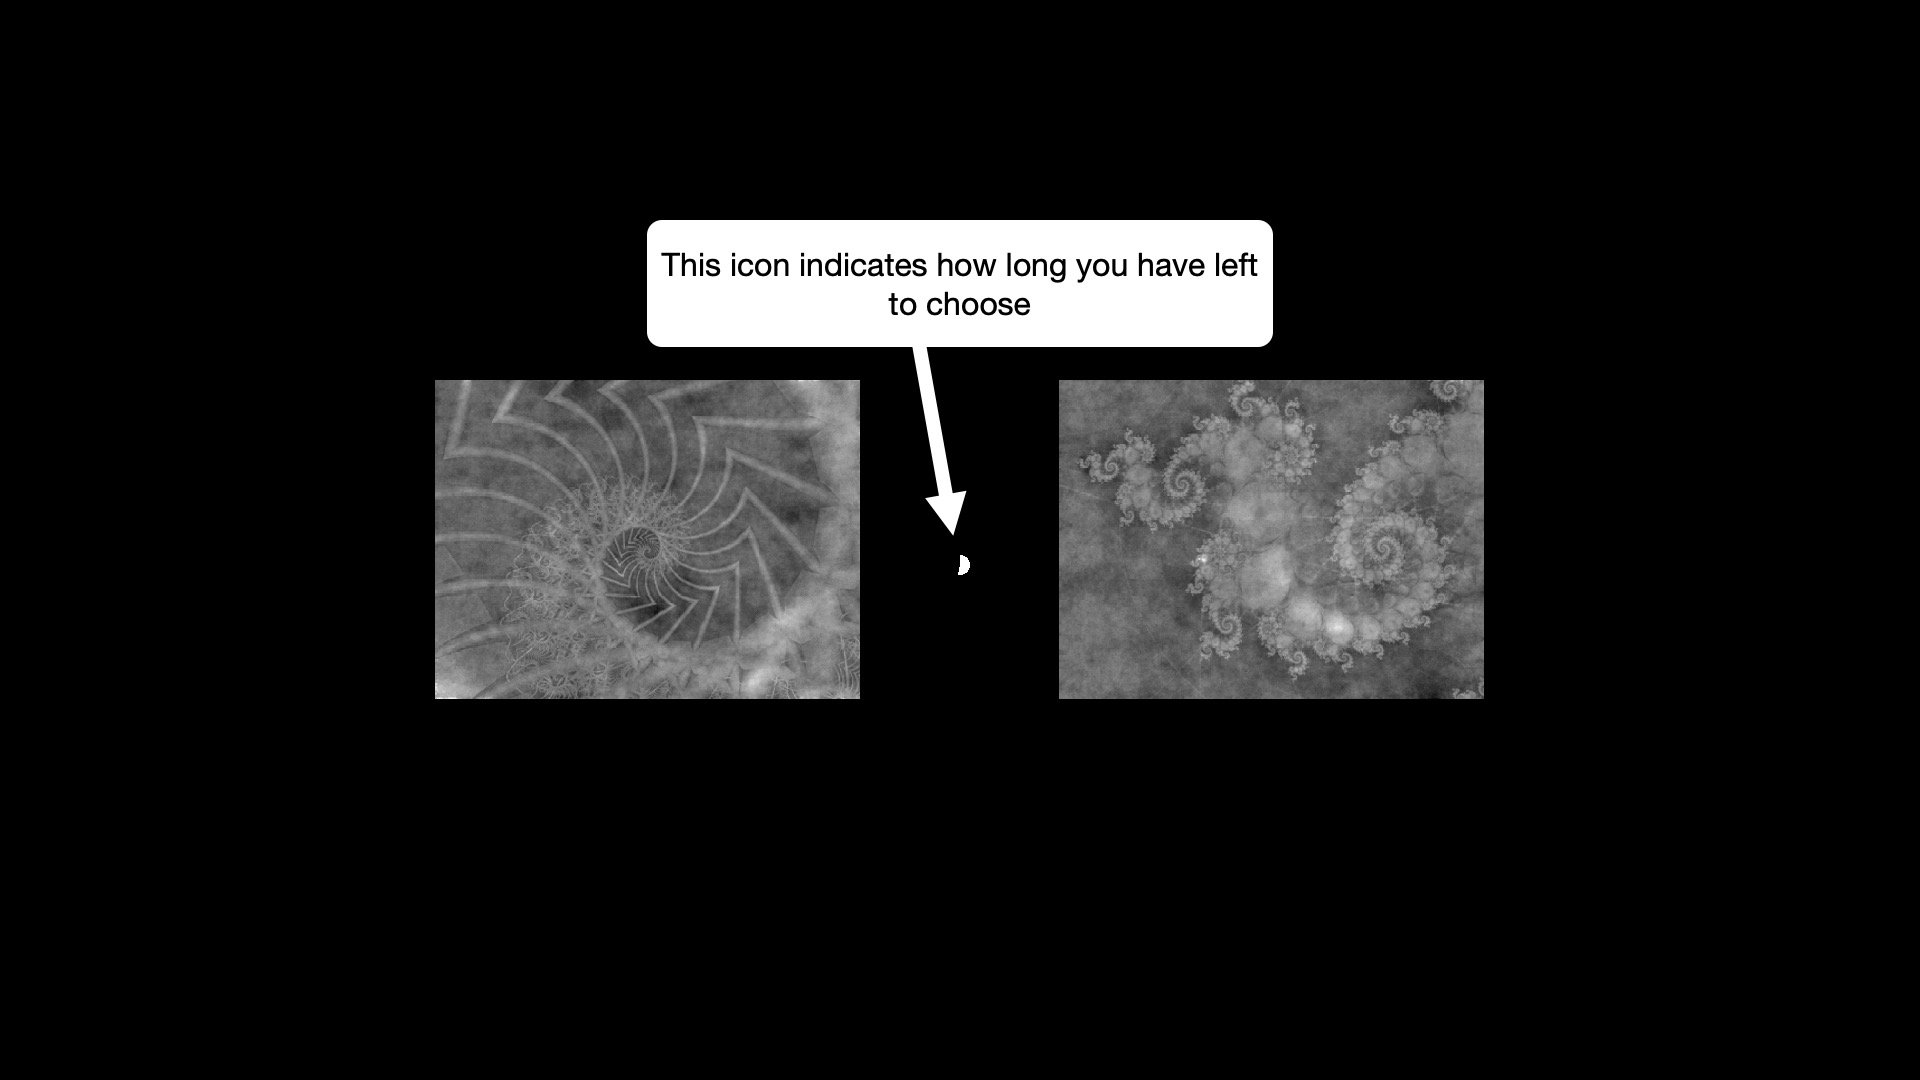
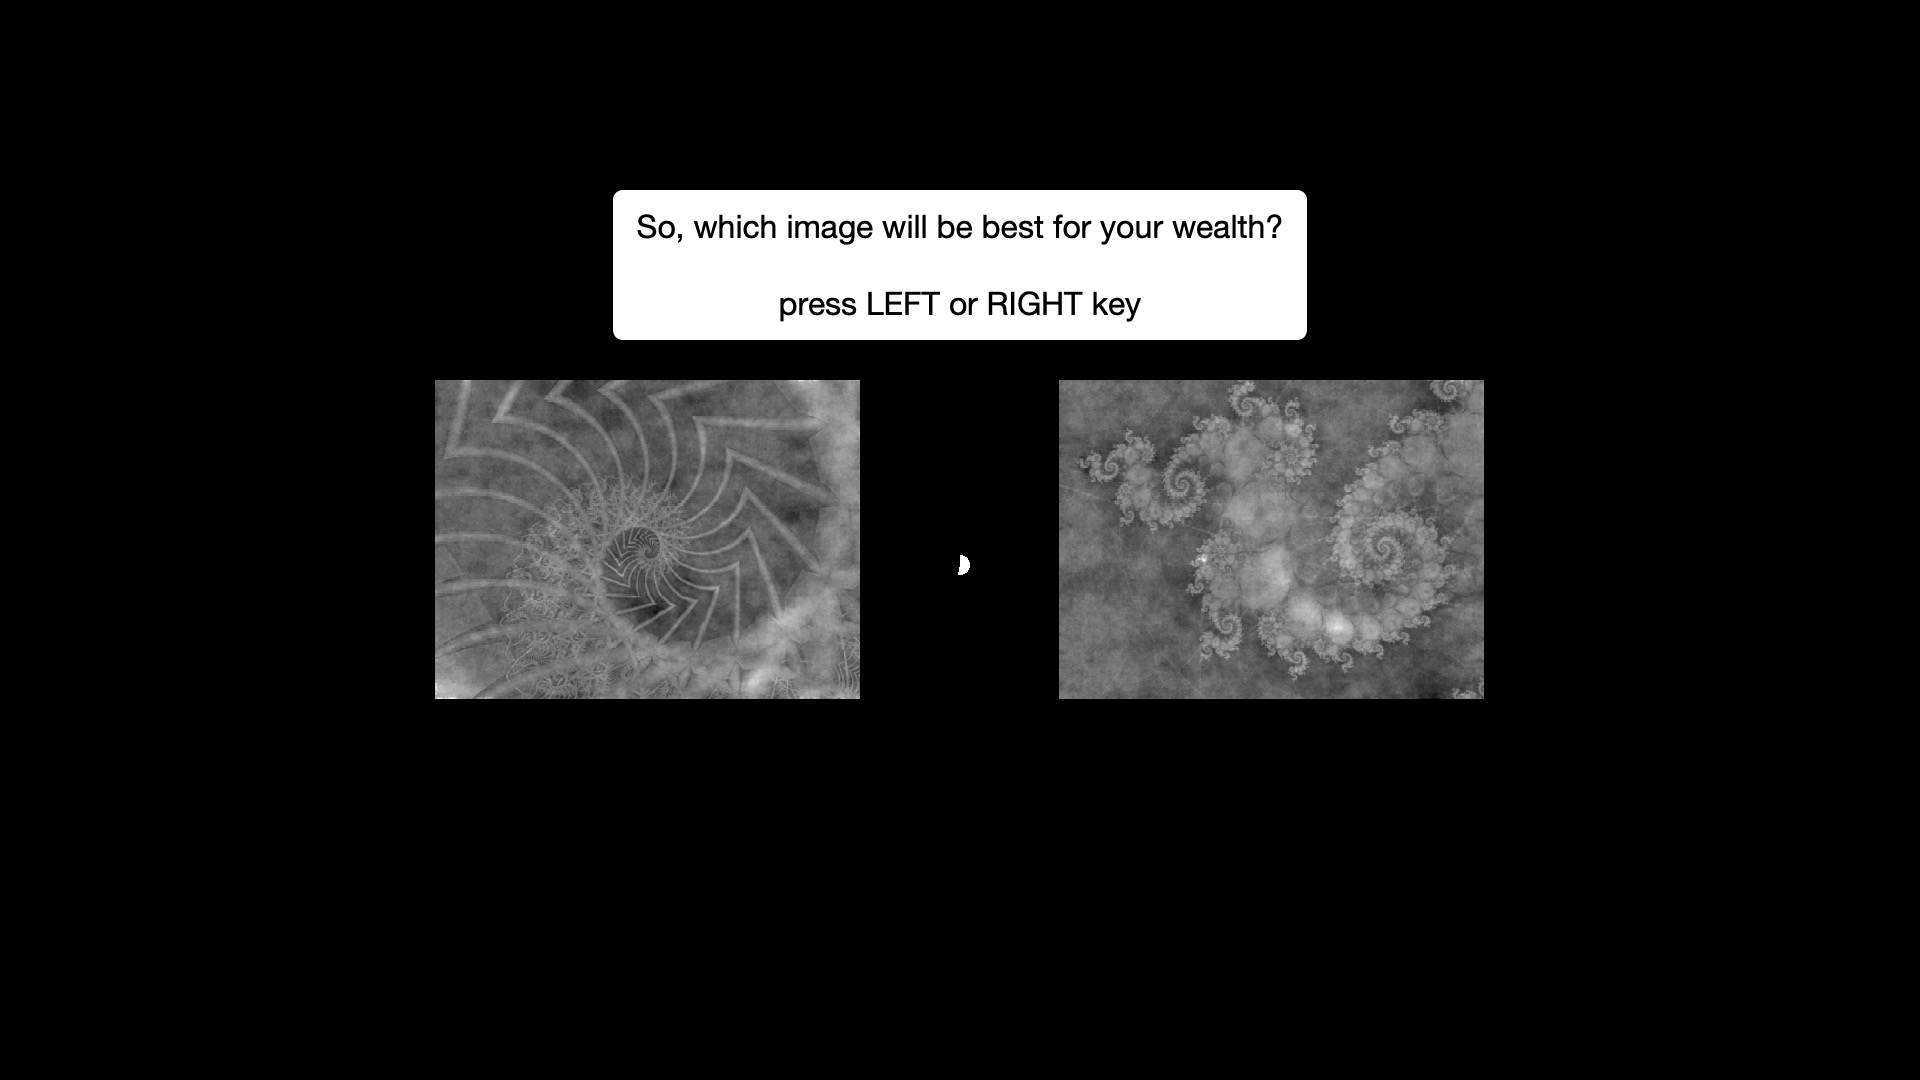
Added two gamble instructions and improved slideshow performance (less loading upfront).

Changed region(s): [[0.3125, 0.1528, 0.6875, 0.4889]]

diff --git a/ergEx_Run.py b/ergEx_Run.py
@@ -12,7 +12,7 @@ from codebase.experiment.exp.helper import get_frame_timings
 from codebase.file_handler import make_bids_dir
 import gc
 
-ACTIVE_MODE = 2
+ACTIVE_MODE = 1
 """ Mode for the active phase 1 = DRCMR, 2 = LML """
 
 N_TRIALS_PASSIVE = 4 * 45 # Default 4 * 45
@@ -39,6 +39,9 @@ MAX_TRIALS_PASSIVE = 45 # By default should be N_TRIALS_PASSIVE / 4
 MAX_TRIALS_ACTIVE = np.inf # Default is np.inf
 """ Number of trials per run in he active phase. """
 SESSIONS = [1, 2]
+
+SLIDESET = {1: [30, 44, 45, 56], 2: [1, 16, 17, 28]}
+""" The 2 sets of start and stop slides for the instructions depending on mode. """
 
 def set_up_win(fscreen, gui=True):
     win = visual.Window(size=[3072 // 2, 1920 // 2], fullscr=fscreen,
@@ -124,7 +127,7 @@ if __name__ == '__main__':
 
         if not instruction_shown:
             win, frameDur, _, win_size = set_up_win(expInfo['fullScreen'], False)
-            run_slideshow(win, passive_conf, win_size=win_size, start_slide=0, stop_slide=15)
+            run_slideshow(win, passive_conf, win_size=win_size, start_slide=SLIDESET[ACTIVE_MODE][0], stop_slide=SLIDESET[ACTIVE_MODE][1])
             win.close()
 
         for run in range(passive_conf['run'],  MAX_RUN_PASSIVE + 1):
@@ -153,7 +156,7 @@ if __name__ == '__main__':
 
         if not instruction_shown:
             win, frameDur, Between, _ = set_up_win(expInfo['fullScreen'], False)
-            run_slideshow(win, passive_conf, win_size=win_size, start_slide=16)
+            run_slideshow(win, passive_conf, win_size=win_size, start_slide=SLIDESET[ACTIVE_MODE][2], stop_slide=SLIDESET[ACTIVE_MODE][3])
             win.close()
 
         instruction_shown = True

diff --git a/codebase/experiment/slideshow.py b/codebase/experiment/slideshow.py
@@ -34,7 +34,7 @@ def run_slideshow(win, expInfo, path=SLIDE_PATH, start_slide=0, stop_slide=None,
 
     slides = glob(os.path.join(path, 'Slide*'))
 
-    slides = nat_sorted(slides)
+    slides = nat_sorted(slides)[start_slide : stop_slide + 1]
 
     initialization = visual.TextStim(win=win, name='initialization',
                                     text='Initializing!',
@@ -54,14 +54,11 @@ def run_slideshow(win, expInfo, path=SLIDE_PATH, start_slide=0, stop_slide=None,
     initialization.setAutoDraw(False)
     slideShow = True
 
-    images[start_slide].setAutoDraw(True)
-    win.flip()
+    min_slides = 0
+    max_slides = len(images) - 1
 
-    min_slides = start_slide
-    if stop_slide is None:
-        max_slides = len(images) - 1
-    else:
-        max_slides = stop_slide
+    images[min_slides].setAutoDraw(True)
+    win.flip()
 
     sl_counter = min_slides
     allow_skip = False
